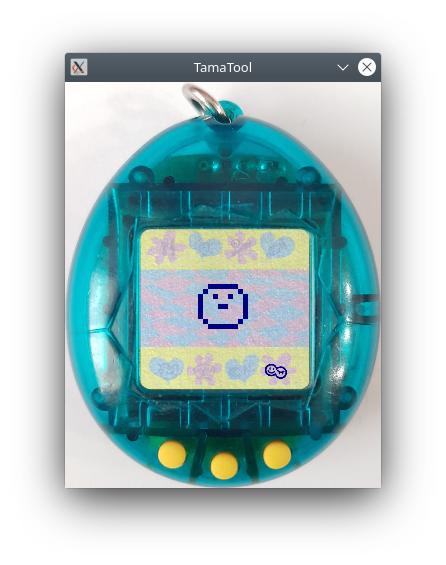
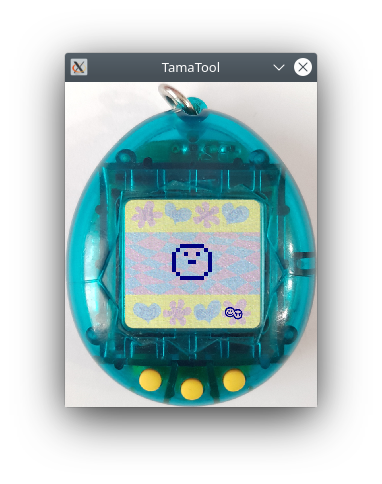
Update Readme

diff --git a/README.md b/README.md
@@ -9,9 +9,10 @@ More than a simple emulator, it is an exploration tool featuring a realtime RAM 
 
 ![TamaTool](misc/screenshot.png)![TamaTool-Shell](misc/screenshot2.png)
 
-In order to create the background image used in TamaTool, I scanned the background of my own P1, that I filtered/enhanced using GIMP. The original scan be found in the __misc__ folder.
+In order to create the background image used in TamaTool, I scanned the background of my own P1, that I filtered/enhanced using GIMP. The original scan be found in the __misc__ folder. The shell is also a photo of my P1.
 
 __Notes regarding the supported platforms__
+
 The Windows build does not include the realtime memory editor. The ASM debugger and I/Os monitor do work, but the emulation is very slow when they are enabled because of the poor console performances.
 Android support would be feasible, but a native implementation of TamaLIB without libSDL2 would probably be more efficient.
 
@@ -102,7 +103,7 @@ Getting all the supported options:
 $ ./tamatool -h
 ```
 
-Once running, the three Tamagotchi buttons are mapped to the left, down and right arrows of the keyboard.  
+Once running, you can either click on the shell's buttons to interact with the Tamagotchi, or you can press the __left__, __down__ and __right__ arrow keys of your keyboard.  
 Pressing __s__ puts the emulation in step by step mode, while __r__ resumes it.  
 Pressing __f__ toggles between the original speed, x10 speed and unlimited speed.  
 Pressing __t__ shows/hides the Tamagotchi shell.  
